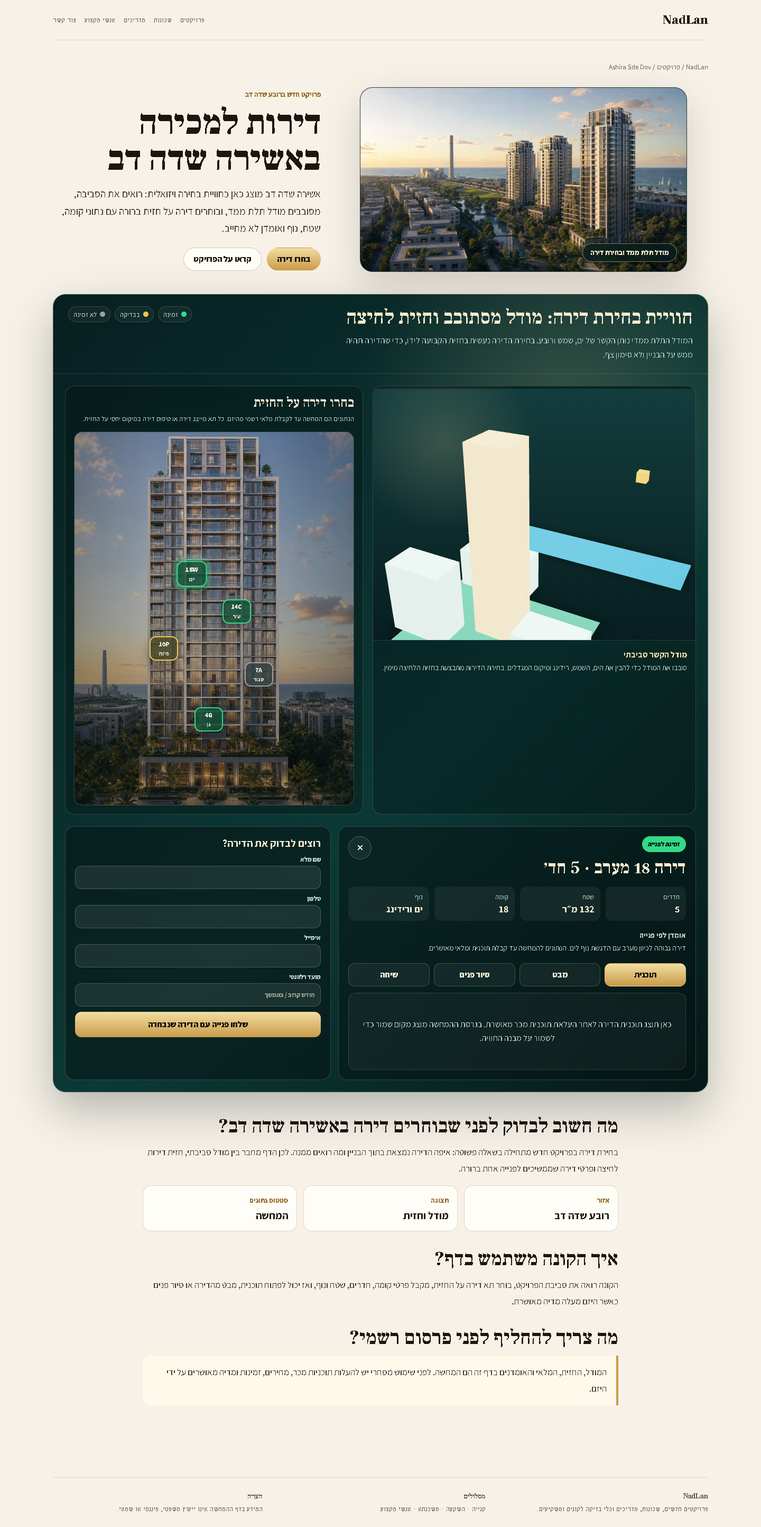
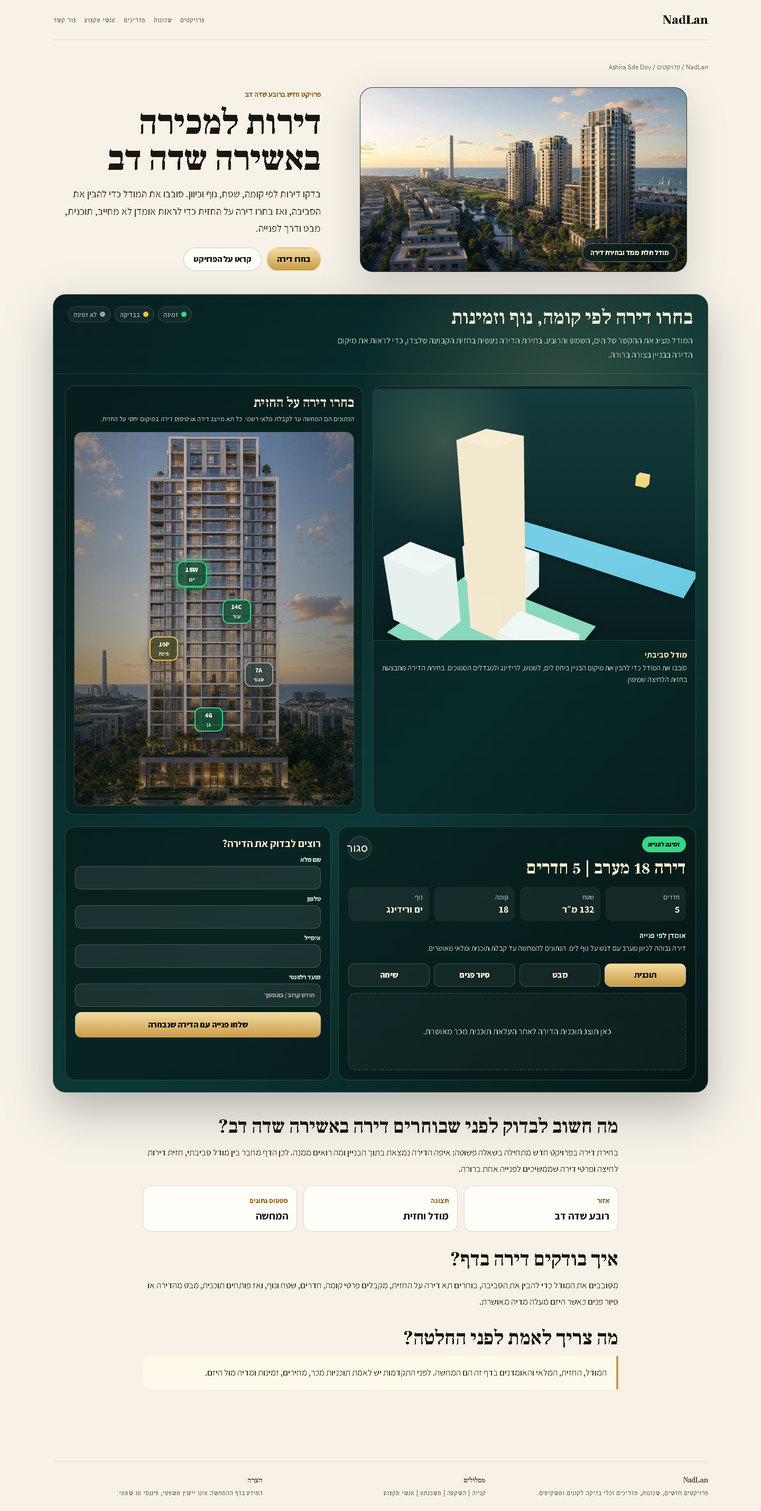
fix: clean ashira v2 buyer copy and encoding

diff --git a/docs/previews/ashira-showroom-v2-preview.html b/docs/previews/ashira-showroom-v2-preview.html
@@ -3,7 +3,7 @@
 <head>
 	<meta charset="utf-8">
 	<meta name="viewport" content="width=device-width, initial-scale=1">
-	<title>Ashira Sde Dov · NadLan showroom v2 preview</title>
+	<title>Ashira Sde Dov | NadLan</title>
 	<link rel="icon" href="data:,">
 	<link rel="preconnect" href="https://fonts.googleapis.com">
 	<link rel="preconnect" href="https://fonts.gstatic.com" crossorigin>
@@ -34,7 +34,7 @@
 			<div>
 				<span class="nlv2-eyebrow">פרויקט חדש ברובע שדה דב</span>
 				<h1 id="nlv2-ashira-title">דירות למכירה באשירה שדה דב</h1>
-				<p>אשירה שדה דב מוצג כאן כחוויית בחירה ויזואלית: רואים את הסביבה, מסובבים מודל תלת ממד, ובוחרים דירה על חזית ברורה עם נתוני קומה, שטח, נוף ואומדן לא מחייב.</p>
+				<p>בדקו דירות לפי קומה, שטח, נוף וכיוון. סובבו את המודל כדי להבין את הסביבה, ואז בחרו דירה על החזית כדי לראות אומדן לא מחייב, תוכנית, מבט ודרך לפנייה.</p>
 				<div class="nlv2-hero-actions">
 					<a class="nlv2-button nlv2-button-primary" href="#nlv2-ashira-selector">בחרו דירה</a>
 					<a class="nlv2-button" href="#nlv2-ashira-info">קראו על הפרויקט</a>
@@ -45,8 +45,8 @@
 		<section class="nlv2-product" id="nlv2-ashira-selector" aria-labelledby="nlv2-ashira-product-title">
 			<header class="nlv2-product-head">
 				<div>
-					<h2 id="nlv2-ashira-product-title">חוויית בחירת דירה: מודל מסתובב וחזית לחיצה</h2>
-					<p>המודל התלת ממדי נותן הקשר של ים, שמש ורובע. בחירת הדירה נעשית בחזית הקבועה לידו, כדי שהדירה תהיה ממש על הבניין ולא סימון צף.</p>
+					<h2 id="nlv2-ashira-product-title">בחרו דירה לפי קומה, נוף וזמינות</h2>
+					<p>המודל מציג את ההקשר של הים, השמש והרובע. בחירת הדירה נעשית בחזית הקבועה שלצדו, כדי לראות את מיקום הדירה בבניין בצורה ברורה.</p>
 				</div>
 				<div class="nlv2-legend" aria-label="מקרא זמינות">
 					<span><i class="nlv2-dot" style="--nlv2-status:#34d986"></i> זמינה</span>
@@ -57,23 +57,23 @@
 
 			<div class="nlv2-stage">
 				<section class="nlv2-model" aria-label="מודל תלת ממד של סביבת הפרויקט">
-					<model-viewer src="../../assets/projects/ashira-sde-dov/model-prototype.glb" poster="../../assets/projects/ashira-sde-dov/ashira-hero-concept.jpg" camera-controls auto-rotate auto-rotate-delay="2200" rotation-per-second="8deg" reveal="auto" loading="auto" camera-orbit="35deg 64deg 68m" min-camera-orbit="-Infinity 54deg auto" max-camera-orbit="Infinity 74deg auto" shadow-intensity="0.9" interaction-prompt="none" ar-status="not-presenting"></model-viewer>
+					<model-viewer src="../../assets/projects/ashira-sde-dov/model-context.glb" poster="../../assets/projects/ashira-sde-dov/ashira-hero-concept.jpg" camera-controls auto-rotate auto-rotate-delay="2200" rotation-per-second="8deg" reveal="auto" loading="auto" camera-orbit="35deg 64deg 68m" min-camera-orbit="-Infinity 54deg auto" max-camera-orbit="Infinity 74deg auto" shadow-intensity="0.9" interaction-prompt="none" ar-status="not-presenting"></model-viewer>
 					<div class="nlv2-model-caption">
-						<strong>מודל הקשר סביבתי</strong>
-						סובבו את המודל כדי להבין את הים, השמש, רידינג ומיקום המגדלים. בחירת הדירות מתבצעת בחזית הלחיצה מימין.
+						<strong>מודל סביבתי</strong>
+						סובבו את המודל כדי להבין את מיקום הבניין ביחס לים, לשמש, לרידינג ולמגדלים הסמוכים. בחירת הדירה מתבצעת בחזית הלחיצה שמימין.
 					</div>
 				</section>
 
 				<section class="nlv2-picker" aria-label="בחירת דירה על חזית הפרויקט">
 					<h3>בחרו דירה על החזית</h3>
-					<p class="nlv2-picker-note">הנתונים הם המחשה עד לקבלת מלאי רשמי מהיזם. כל תא מייצג דירה או טיפוס דירה במיקום יחסי על החזית.</p>
+					<p class="nlv2-picker-note">הנתונים הם המחשה עד לקבלת מלאי רשמי. כל תא מייצג דירה או טיפוס דירה במיקום יחסי על החזית.</p>
 					<div class="nlv2-facade">
-						<img src="../../assets/projects/ashira-sde-dov/ashira-facade-concept.jpg" alt="חזית אשירה עם חלונות ומרפסות לבחירת דירה">
-						<button class="nlv2-cell is-featured is-active" style="left:42%;top:38%;--nlv2-status:#34d986" data-nlv2-unit data-unit-id="ashira-18-west" data-status-color="#34d986" data-status="זמינה לפנייה" data-title="דירה 18 מערב · 5 חד׳" data-rooms="5" data-sqm="132 מ״ר" data-floor="18" data-view="ים ורידינג" data-price="אומדן לפי פנייה" data-note="דירה גבוהה לכיוון מערב עם הדגשת נוף לים. הנתונים להמחשה עד קבלת תוכנית ומלאי מאושרים." aria-pressed="true">18W<small>ים</small></button>
-						<button class="nlv2-cell" style="left:58%;top:48%;--nlv2-status:#34d986" data-nlv2-unit data-unit-id="ashira-14-city" data-status-color="#34d986" data-status="זמינה לפנייה" data-title="דירה 14 עיר · 4 חד׳" data-rooms="4" data-sqm="104 מ״ר" data-floor="14" data-view="רובע שדה דב" data-price="אומדן לפי פנייה" data-note="טיפוס דירה משפחתי במרכז החזית. יש להחליף בנתוני מכר רשמיים לפני פרסום מלא.">14C<small>עיר</small></button>
-						<button class="nlv2-cell is-featured" style="left:32%;top:58%;--nlv2-status:#f2c14e" data-nlv2-unit data-unit-id="ashira-10-corner" data-status-color="#f2c14e" data-status="בבדיקת זמינות" data-title="דירה 10 פינתית · 4 חד׳" data-rooms="4" data-sqm="118 מ״ר" data-floor="10" data-view="ים וחצר" data-price="אומדן לפי פנייה" data-note="דירה פינתית להמחשה עם מרפסת לכיוון מערב. הזמינות אינה מחייבת עד אימות מול היזם.">10P<small>פינה</small></button>
-						<button class="nlv2-cell" style="left:66%;top:65%;--nlv2-status:#9aa0a6" data-nlv2-unit data-unit-id="ashira-07-sold" data-status-color="#9aa0a6" data-status="לא זמינה" data-title="דירה 7 · 3 חד׳" data-rooms="3" data-sqm="82 מ״ר" data-floor="7" data-view="מרקם עירוני" data-price="לא מוצג" data-note="סימון דירה שאינה זמינה, כדי להראות לקונה את מצב המלאי על החזית.">7A<small>סגור</small></button>
-						<button class="nlv2-cell" style="left:48%;top:77%;--nlv2-status:#34d986" data-nlv2-unit data-unit-id="ashira-04-garden" data-status-color="#34d986" data-status="זמינה לפנייה" data-title="דירת גן 4 · 3 חד׳" data-rooms="3" data-sqm="92 מ״ר" data-floor="4" data-view="גן פנימי" data-price="אומדן לפי פנייה" data-note="טיפוס נמוך יותר עם חיבור לגינה ולרחוב. הנתונים להמחשה בלבד.">4G<small>גן</small></button>
+						<img src="../../assets/projects/ashira-sde-dov/ashira-facade-concept.jpg" alt="חזית Ashira עם תאי דירות לבחירה">
+						<button class="nlv2-cell is-featured is-active" style="left:42%;top:38%;--nlv2-status:#34d986" data-nlv2-unit data-unit-id="ashira-18-west" data-status-color="#34d986" data-status="זמינה לפנייה" data-title="דירה 18 מערב | 5 חדרים" data-rooms="5" data-sqm="132 מ״ר" data-floor="18" data-view="ים ורידינג" data-price="אומדן לפי פנייה" data-note="דירה גבוהה לכיוון מערב עם דגש על נוף לים. הנתונים להמחשה עד קבלת תוכנית ומלאי מאושרים." aria-pressed="true">18W<small>ים</small></button>
+						<button class="nlv2-cell" style="left:58%;top:48%;--nlv2-status:#34d986" data-nlv2-unit data-unit-id="ashira-14-city" data-status-color="#34d986" data-status="זמינה לפנייה" data-title="דירה 14 עיר | 4 חדרים" data-rooms="4" data-sqm="104 מ״ר" data-floor="14" data-view="רובע שדה דב" data-price="אומדן לפי פנייה" data-note="דירה משפחתית במרכז החזית. יש לאמת מלאי, מחיר ותוכנית מול היזם לפני כל החלטה.">14C<small>עיר</small></button>
+						<button class="nlv2-cell is-featured" style="left:32%;top:58%;--nlv2-status:#f2c14e" data-nlv2-unit data-unit-id="ashira-10-corner" data-status-color="#f2c14e" data-status="בבדיקת זמינות" data-title="דירה 10 פינתית | 4 חדרים" data-rooms="4" data-sqm="118 מ״ר" data-floor="10" data-view="ים וחצר" data-price="אומדן לפי פנייה" data-note="דירה פינתית עם מרפסת לכיוון מערב. הזמינות אינה מחייבת עד אימות מול היזם.">10P<small>פינה</small></button>
+						<button class="nlv2-cell" style="left:66%;top:65%;--nlv2-status:#9aa0a6" data-nlv2-unit data-unit-id="ashira-07-sold" data-status-color="#9aa0a6" data-status="לא זמינה" data-title="דירה 7 | 3 חדרים" data-rooms="3" data-sqm="82 מ״ר" data-floor="7" data-view="מרקם עירוני" data-price="לא מוצג" data-note="סימון דירה שאינה זמינה, כדי להראות לקונה את מצב המלאי על החזית.">7A<small>סגור</small></button>
+						<button class="nlv2-cell" style="left:48%;top:77%;--nlv2-status:#34d986" data-nlv2-unit data-unit-id="ashira-04-garden" data-status-color="#34d986" data-status="זמינה לפנייה" data-title="דירת גן 4 | 3 חדרים" data-rooms="3" data-sqm="92 מ״ר" data-floor="4" data-view="גן פנימי" data-price="אומדן לפי פנייה" data-note="טיפוס נמוך יותר עם חיבור לגינה ולרחוב. הנתונים להמחשה בלבד.">4G<small>גן</small></button>
 					</div>
 				</section>
 			</div>
@@ -83,9 +83,9 @@
 					<header class="nlv2-card-header">
 						<div>
 							<span class="nlv2-status" data-nlv2-status>זמינה לפנייה</span>
-							<h3 data-nlv2-title>דירה 18 מערב · 5 חד׳</h3>
+							<h3 data-nlv2-title>דירה 18 מערב | 5 חדרים</h3>
 						</div>
-						<button class="nlv2-dismiss" type="button" data-nlv2-dismiss aria-label="סגירת פרטי הדירה">×</button>
+						<button class="nlv2-dismiss" type="button" data-nlv2-dismiss aria-label="סגירת פרטי הדירה">סגור</button>
 					</header>
 					<div class="nlv2-facts">
 						<div class="nlv2-fact">חדרים<strong data-nlv2-rooms>5</strong></div>
@@ -94,7 +94,7 @@
 						<div class="nlv2-fact">נוף<strong data-nlv2-view>ים ורידינג</strong></div>
 					</div>
 					<p class="nlv2-card-copy"><strong data-nlv2-price>אומדן לפי פנייה</strong></p>
-					<p class="nlv2-card-copy" data-nlv2-note>דירה גבוהה לכיוון מערב עם הדגשת נוף לים. הנתונים להמחשה עד קבלת תוכנית ומלאי מאושרים.</p>
+					<p class="nlv2-card-copy" data-nlv2-note>דירה גבוהה לכיוון מערב עם דגש על נוף לים. הנתונים להמחשה עד קבלת תוכנית ומלאי מאושרים.</p>
 					<div class="nlv2-tabs" role="tablist" aria-label="מידע על הדירה">
 						<button class="is-active" type="button" data-nlv2-tab="plan" aria-selected="true">תוכנית</button>
 						<button type="button" data-nlv2-tab="view" aria-selected="false">מבט</button>
@@ -127,16 +127,16 @@
 				<div class="nlv2-data-card"><span>תצוגה</span><strong>מודל וחזית</strong></div>
 				<div class="nlv2-data-card"><span>סטטוס נתונים</span><strong>המחשה</strong></div>
 			</div>
-			<h2>איך הקונה משתמש בדף?</h2>
-			<p>הקונה רואה את סביבת הפרויקט, בוחר תא דירה על החזית, מקבל פרטי קומה, חדרים, שטח ונוף, ואז יכול לפתוח תוכנית, מבט מהדירה או סיור פנים כאשר היזם מעלה מדיה מאושרת.</p>
-			<h2>מה צריך להחליף לפני פרסום רשמי?</h2>
-			<p class="nlv2-note">המודל, החזית, המלאי והאומדנים בדף זה הם המחשה. לפני שימוש מסחרי יש להעלות תוכניות מכר, מחירים, זמינות ומדיה מאושרים על ידי היזם.</p>
+			<h2>איך בודקים דירה בדף?</h2>
+			<p>מסובבים את המודל כדי להבין את הסביבה, בוחרים תא דירה על החזית, מקבלים פרטי קומה, חדרים, שטח ונוף, ואז פותחים תוכנית, מבט מהדירה או סיור פנים כאשר היזם מעלה מדיה מאושרת.</p>
+			<h2>מה צריך לאמת לפני החלטה?</h2>
+			<p class="nlv2-note">המודל, החזית, המלאי והאומדנים בדף זה הם המחשה. לפני התקדמות יש לאמת תוכניות מכר, מחירים, זמינות ומדיה מול היזם.</p>
 		</section>
 	</main>
 
 	<footer class="nlv2-site-footer">
 		<div><strong>NadLan</strong><br>פרויקטים חדשים, שכונות, מדריכים וכלי בדיקה לקונים ומשקיעים.</div>
-		<div><strong>מסלולים</strong><br>קנייה · השקעה · משכנתא · אנשי מקצוע</div>
+		<div><strong>מסלולים</strong><br>קנייה | השקעה | משכנתא | אנשי מקצוע</div>
 		<div><strong>הערה</strong><br>המידע בדף ההמחשה אינו ייעוץ משפטי, פיננסי או שמאי.</div>
 	</footer>
 	<script src="../../assets/js/nadlan-showroom-v2.js"></script>

diff --git a/assets/js/nadlan-showroom-v2.js b/assets/js/nadlan-showroom-v2.js
@@ -2,10 +2,10 @@
 	'use strict';
 
 	var panelCopy = {
-		plan: 'כאן תוצג תוכנית הדירה לאחר העלאת תוכנית מכר מאושרת. בגרסת ההמחשה מוצג מקום שמור כדי לשמור על מבנה החוויה.',
-		view: 'כאן יופיע מבט מהדירה לפי קומה וכיוון, עם חיבור עתידי למפה או לתצוגת תלת ממד של הסביבה.',
-		tour: 'כאן יופיע סיור פנים או סרטון שיווקי כאשר היזם יעלה מדיה מאושרת לפרויקט.',
-		contact: 'השאירו פרטים עם הדירה שנבחרה, ונציג יחזור עם מידע עדכני וזמינות.'
+		plan: 'כאן תוצג תוכנית הדירה לאחר העלאת תוכנית מכר מאושרת.',
+		view: 'כאן יוצג מבט מהדירה לפי קומה וכיוון כאשר נתוני המבט יהיו זמינים.',
+		tour: 'כאן יוצגו סיור פנים, וידאו או גלריית תמונות כאשר החומר המאושר זמין.',
+		contact: 'השאירו פרטים עם הדירה שנבחרה כדי לבדוק זמינות, מחיר ותוכנית עדכניים.'
 	};
 
 	function text(node, value) {
@@ -71,7 +71,7 @@
 		var ok = root.querySelector('[data-nlv2-feedback]');
 		var unit = currentUnit(root);
 		var unitTitle = unit ? unit.dataset.title : 'הדירה שנבחרה';
-		text(ok, 'הפנייה נשמרה בהמחשה עם פרטי ' + unitTitle + '. בחיבור החי היא תישלח לערוץ הפנייה של הפרויקט.');
+		text(ok, 'הפנייה מוכנה לשליחה עם פרטי ' + unitTitle + '. נציג יחזור עם זמינות, מחיר ותוכנית עדכניים.');
 		if (ok) {
 			ok.hidden = false;
 		}

diff --git a/patterns/project-showroom-ashira-v2.php b/patterns/project-showroom-ashira-v2.php
@@ -3,7 +3,7 @@
  * Title: Ashira Sde Dov showroom v2
  * Slug: nadlan-revenue/project-showroom-ashira-v2
  * Categories: featured, media
- * Description: Clean v2 project showroom with a rotating context model and a separate facade apartment selector.
+ * Description: Clean v2 project showroom with a rotating context model and a separate apartment selector.
  *
  * @package WordPress
  * @subpackage NadLan_Revenue
@@ -24,7 +24,7 @@ $asset_base = trailingslashit( get_template_directory_uri() ) . 'assets/projects
 		<div>
 			<span class="nlv2-eyebrow">פרויקט חדש ברובע שדה דב</span>
 			<h1 id="nlv2-ashira-title">דירות למכירה באשירה שדה דב</h1>
-			<p>אשירה שדה דב מוצג כאן כחוויית בחירה ויזואלית: רואים את הסביבה, מסובבים מודל תלת ממד, ובוחרים דירה על חזית ברורה עם נתוני קומה, שטח, נוף ואומדן לא מחייב.</p>
+			<p>בדקו דירות לפי קומה, שטח, נוף וכיוון. סובבו את המודל כדי להבין את הסביבה, ואז בחרו דירה על החזית כדי לראות אומדן לא מחייב, תוכנית, מבט ודרך לפנייה.</p>
 			<div class="nlv2-hero-actions">
 				<a class="nlv2-button nlv2-button-primary" href="#nlv2-ashira-selector">בחרו דירה</a>
 				<a class="nlv2-button" href="#nlv2-ashira-info">קראו על הפרויקט</a>
@@ -35,8 +35,8 @@ $asset_base = trailingslashit( get_template_directory_uri() ) . 'assets/projects
 	<section class="nlv2-product" id="nlv2-ashira-selector" aria-labelledby="nlv2-ashira-product-title">
 		<header class="nlv2-product-head">
 			<div>
-				<h2 id="nlv2-ashira-product-title">חוויית בחירת דירה: מודל מסתובב וחזית לחיצה</h2>
-				<p>המודל התלת ממדי נותן הקשר של ים, שמש ורובע. בחירת הדירה נעשית בחזית הקבועה לידו, כדי שהדירה תהיה ממש על הבניין ולא סימון צף.</p>
+				<h2 id="nlv2-ashira-product-title">בחרו דירה לפי קומה, נוף וזמינות</h2>
+				<p>המודל מציג את ההקשר של הים, השמש והרובע. בחירת הדירה נעשית בחזית הקבועה שלצדו, כדי לראות את מיקום הדירה בבניין בצורה ברורה.</p>
 			</div>
 			<div class="nlv2-legend" aria-label="מקרא זמינות">
 				<span><i class="nlv2-dot" style="--nlv2-status:#34d986"></i> זמינה</span>
@@ -48,7 +48,7 @@ $asset_base = trailingslashit( get_template_directory_uri() ) . 'assets/projects
 		<div class="nlv2-stage">
 			<section class="nlv2-model" aria-label="מודל תלת ממד של סביבת הפרויקט">
 				<model-viewer
-					src="<?php echo esc_url( $asset_base . 'model-prototype.glb' ); ?>"
+					src="<?php echo esc_url( $asset_base . 'model-context.glb' ); ?>"
 					poster="<?php echo esc_url( $asset_base . 'ashira-hero-concept.jpg' ); ?>"
 					camera-controls
 					auto-rotate
@@ -64,21 +64,21 @@ $asset_base = trailingslashit( get_template_directory_uri() ) . 'assets/projects
 					ar-status="not-presenting">
 				</model-viewer>
 				<div class="nlv2-model-caption">
-					<strong>מודל הקשר סביבתי</strong>
-					סובבו את המודל כדי להבין את הים, השמש, רידינג ומיקום המגדלים. בחירת הדירות מתבצעת בחזית הלחיצה מימין.
+					<strong>מודל סביבתי</strong>
+					סובבו את המודל כדי להבין את מיקום הבניין ביחס לים, לשמש, לרידינג ולמגדלים הסמוכים. בחירת הדירה מתבצעת בחזית הלחיצה שמימין.
 				</div>
 			</section>
 
 			<section class="nlv2-picker" aria-label="בחירת דירה על חזית הפרויקט">
 				<h3>בחרו דירה על החזית</h3>
-				<p class="nlv2-picker-note">הנתונים הם המחשה עד לקבלת מלאי רשמי מהיזם. כל תא מייצג דירה או טיפוס דירה במיקום יחסי על החזית.</p>
+				<p class="nlv2-picker-note">הנתונים הם המחשה עד לקבלת מלאי רשמי. כל תא מייצג דירה או טיפוס דירה במיקום יחסי על החזית.</p>
 				<div class="nlv2-facade">
-					<img src="<?php echo esc_url( $asset_base . 'ashira-facade-concept.jpg' ); ?>" alt="חזית אשירה עם חלונות ומרפסות לבחירת דירה">
-					<button class="nlv2-cell is-featured is-active" style="left:42%;top:38%;--nlv2-status:#34d986" data-nlv2-unit data-unit-id="ashira-18-west" data-status-color="#34d986" data-status="זמינה לפנייה" data-title="דירה 18 מערב · 5 חד׳" data-rooms="5" data-sqm="132 מ״ר" data-floor="18" data-view="ים ורידינג" data-price="אומדן לפי פנייה" data-note="דירה גבוהה לכיוון מערב עם הדגשת נוף לים. הנתונים להמחשה עד קבלת תוכנית ומלאי מאושרים." aria-pressed="true">18W<small>ים</small></button>
-					<button class="nlv2-cell" style="left:58%;top:48%;--nlv2-status:#34d986" data-nlv2-unit data-unit-id="ashira-14-city" data-status-color="#34d986" data-status="זמינה לפנייה" data-title="דירה 14 עיר · 4 חד׳" data-rooms="4" data-sqm="104 מ״ר" data-floor="14" data-view="רובע שדה דב" data-price="אומדן לפי פנייה" data-note="טיפוס דירה משפחתי במרכז החזית. יש להחליף בנתוני מכר רשמיים לפני פרסום מלא.">14C<small>עיר</small></button>
-					<button class="nlv2-cell is-featured" style="left:32%;top:58%;--nlv2-status:#f2c14e" data-nlv2-unit data-unit-id="ashira-10-corner" data-status-color="#f2c14e" data-status="בבדיקת זמינות" data-title="דירה 10 פינתית · 4 חד׳" data-rooms="4" data-sqm="118 מ״ר" data-floor="10" data-view="ים וחצר" data-price="אומדן לפי פנייה" data-note="דירה פינתית להמחשה עם מרפסת לכיוון מערב. הזמינות אינה מחייבת עד אימות מול היזם.">10P<small>פינה</small></button>
-					<button class="nlv2-cell" style="left:66%;top:65%;--nlv2-status:#9aa0a6" data-nlv2-unit data-unit-id="ashira-07-sold" data-status-color="#9aa0a6" data-status="לא זמינה" data-title="דירה 7 · 3 חד׳" data-rooms="3" data-sqm="82 מ״ר" data-floor="7" data-view="מרקם עירוני" data-price="לא מוצג" data-note="סימון דירה שאינה זמינה, כדי להראות לקונה את מצב המלאי על החזית.">7A<small>סגור</small></button>
-					<button class="nlv2-cell" style="left:48%;top:77%;--nlv2-status:#34d986" data-nlv2-unit data-unit-id="ashira-04-garden" data-status-color="#34d986" data-status="זמינה לפנייה" data-title="דירת גן 4 · 3 חד׳" data-rooms="3" data-sqm="92 מ״ר" data-floor="4" data-view="גן פנימי" data-price="אומדן לפי פנייה" data-note="טיפוס נמוך יותר עם חיבור לגינה ולרחוב. הנתונים להמחשה בלבד.">4G<small>גן</small></button>
+					<img src="<?php echo esc_url( $asset_base . 'ashira-facade-concept.jpg' ); ?>" alt="חזית Ashira עם תאי דירות לבחירה">
+					<button class="nlv2-cell is-featured is-active" style="left:42%;top:38%;--nlv2-status:#34d986" data-nlv2-unit data-unit-id="ashira-18-west" data-status-color="#34d986" data-status="זמינה לפנייה" data-title="דירה 18 מערב | 5 חדרים" data-rooms="5" data-sqm="132 מ״ר" data-floor="18" data-view="ים ורידינג" data-price="אומדן לפי פנייה" data-note="דירה גבוהה לכיוון מערב עם דגש על נוף לים. הנתונים להמחשה עד קבלת תוכנית ומלאי מאושרים." aria-pressed="true">18W<small>ים</small></button>
+					<button class="nlv2-cell" style="left:58%;top:48%;--nlv2-status:#34d986" data-nlv2-unit data-unit-id="ashira-14-city" data-status-color="#34d986" data-status="זמינה לפנייה" data-title="דירה 14 עיר | 4 חדרים" data-rooms="4" data-sqm="104 מ״ר" data-floor="14" data-view="רובע שדה דב" data-price="אומדן לפי פנייה" data-note="דירה משפחתית במרכז החזית. יש לאמת מלאי, מחיר ותוכנית מול היזם לפני כל החלטה.">14C<small>עיר</small></button>
+					<button class="nlv2-cell is-featured" style="left:32%;top:58%;--nlv2-status:#f2c14e" data-nlv2-unit data-unit-id="ashira-10-corner" data-status-color="#f2c14e" data-status="בבדיקת זמינות" data-title="דירה 10 פינתית | 4 חדרים" data-rooms="4" data-sqm="118 מ״ר" data-floor="10" data-view="ים וחצר" data-price="אומדן לפי פנייה" data-note="דירה פינתית עם מרפסת לכיוון מערב. הזמינות אינה מחייבת עד אימות מול היזם.">10P<small>פינה</small></button>
+					<button class="nlv2-cell" style="left:66%;top:65%;--nlv2-status:#9aa0a6" data-nlv2-unit data-unit-id="ashira-07-sold" data-status-color="#9aa0a6" data-status="לא זמינה" data-title="דירה 7 | 3 חדרים" data-rooms="3" data-sqm="82 מ״ר" data-floor="7" data-view="מרקם עירוני" data-price="לא מוצג" data-note="סימון דירה שאינה זמינה, כדי להראות לקונה את מצב המלאי על החזית.">7A<small>סגור</small></button>
+					<button class="nlv2-cell" style="left:48%;top:77%;--nlv2-status:#34d986" data-nlv2-unit data-unit-id="ashira-04-garden" data-status-color="#34d986" data-status="זמינה לפנייה" data-title="דירת גן 4 | 3 חדרים" data-rooms="3" data-sqm="92 מ״ר" data-floor="4" data-view="גן פנימי" data-price="אומדן לפי פנייה" data-note="טיפוס נמוך יותר עם חיבור לגינה ולרחוב. הנתונים להמחשה בלבד.">4G<small>גן</small></button>
 				</div>
 			</section>
 		</div>
@@ -88,9 +88,9 @@ $asset_base = trailingslashit( get_template_directory_uri() ) . 'assets/projects
 				<header class="nlv2-card-header">
 					<div>
 						<span class="nlv2-status" data-nlv2-status>זמינה לפנייה</span>
-						<h3 data-nlv2-title>דירה 18 מערב · 5 חד׳</h3>
+						<h3 data-nlv2-title>דירה 18 מערב | 5 חדרים</h3>
 					</div>
-					<button class="nlv2-dismiss" type="button" data-nlv2-dismiss aria-label="סגירת פרטי הדירה">×</button>
+					<button class="nlv2-dismiss" type="button" data-nlv2-dismiss aria-label="סגירת פרטי הדירה">סגור</button>
 				</header>
 				<div class="nlv2-facts">
 					<div class="nlv2-fact">חדרים<strong data-nlv2-rooms>5</strong></div>
@@ -99,7 +99,7 @@ $asset_base = trailingslashit( get_template_directory_uri() ) . 'assets/projects
 					<div class="nlv2-fact">נוף<strong data-nlv2-view>ים ורידינג</strong></div>
 				</div>
 				<p class="nlv2-card-copy"><strong data-nlv2-price>אומדן לפי פנייה</strong></p>
-				<p class="nlv2-card-copy" data-nlv2-note>דירה גבוהה לכיוון מערב עם הדגשת נוף לים. הנתונים להמחשה עד קבלת תוכנית ומלאי מאושרים.</p>
+				<p class="nlv2-card-copy" data-nlv2-note>דירה גבוהה לכיוון מערב עם דגש על נוף לים. הנתונים להמחשה עד קבלת תוכנית ומלאי מאושרים.</p>
 				<div class="nlv2-tabs" role="tablist" aria-label="מידע על הדירה">
 					<button class="is-active" type="button" data-nlv2-tab="plan" aria-selected="true">תוכנית</button>
 					<button type="button" data-nlv2-tab="view" aria-selected="false">מבט</button>
@@ -132,10 +132,10 @@ $asset_base = trailingslashit( get_template_directory_uri() ) . 'assets/projects
 			<div class="nlv2-data-card"><span>תצוגה</span><strong>מודל וחזית</strong></div>
 			<div class="nlv2-data-card"><span>סטטוס נתונים</span><strong>המחשה</strong></div>
 		</div>
-		<h2>איך הקונה משתמש בדף?</h2>
-		<p>הקונה רואה את סביבת הפרויקט, בוחר תא דירה על החזית, מקבל פרטי קומה, חדרים, שטח ונוף, ואז יכול לפתוח תוכנית, מבט מהדירה או סיור פנים כאשר היזם מעלה מדיה מאושרת.</p>
-		<h2>מה צריך להחליף לפני פרסום רשמי?</h2>
-		<p class="nlv2-note">המודל, החזית, המלאי והאומדנים בדף זה הם המחשה. לפני שימוש מסחרי יש להעלות תוכניות מכר, מחירים, זמינות ומדיה מאושרים על ידי היזם.</p>
+		<h2>איך בודקים דירה בדף?</h2>
+		<p>מסובבים את המודל כדי להבין את הסביבה, בוחרים תא דירה על החזית, מקבלים פרטי קומה, חדרים, שטח ונוף, ואז פותחים תוכנית, מבט מהדירה או סיור פנים כאשר היזם מעלה מדיה מאושרת.</p>
+		<h2>מה צריך לאמת לפני החלטה?</h2>
+		<p class="nlv2-note">המודל, החזית, המלאי והאומדנים בדף זה הם המחשה. לפני התקדמות יש לאמת תוכניות מכר, מחירים, זמינות ומדיה מול היזם.</p>
 	</section>
 </main>
 <!-- /wp:html -->

diff --git a/docs/qa/2026-06-26-ashira-v2-preview-factory-gate.md b/docs/qa/2026-06-26-ashira-v2-preview-factory-gate.md
@@ -9,6 +9,10 @@ This slice adds a repeatable screenshot-first QA gate for clean v2 showroom prev
 local HTTP server, opens the preview in Google Chrome through Playwright, captures screenshots at
 desktop, tablet, mobile and Edge-mobile sizes, and writes a machine-readable report.
 
+The latest pass also cleans the Ashira v2 source files after a source audit found mojibake and
+working-language in the preview, pattern, runtime and payload. Public copy now speaks to buyers
+only: apartment choice, floor, rooms, sqm, view, estimate, plans, media and inquiry.
+
 It does not contact WordPress, import a draft, publish content, build a plugin ZIP or deploy the
 site.
 
@@ -64,6 +68,23 @@ Report:
 | Visible Hebrew present | PASS |
 | Mojibake visible | PASS, none |
 | Internal wording visible | PASS, none |
+
+## Source Integrity
+
+Checked files:
+
+- `patterns/project-showroom-ashira-v2.php`
+- `docs/previews/ashira-showroom-v2-preview.html`
+- `assets/js/nadlan-showroom-v2.js`
+- `assets/projects/ashira-sde-dov/showroom-payload.json`
+
+Result:
+
+- no `×...` mojibake sequences
+- no `Â`, `Ã`, or replacement characters
+- no public `מקום שמור`
+- no public `מנוע`, `תבנית`, `לידים`, `פאנל`, `SEO`, `CMS`, `lead`, `engine`, `template`, or `prototype`
+- JSON payload parses successfully
 
 ## Honest Limits
 

diff --git a/assets/projects/ashira-sde-dov/source-notes.md b/assets/projects/ashira-sde-dov/source-notes.md
@@ -2,13 +2,13 @@
 
 Date: 2026-06-26
 
-This folder is a clean v2 prototype package for the Ashira showroom factory.
+This folder is a clean v2 project package for the Ashira showroom factory.
 
 ## Assets
 
 - `ashira-hero-concept.jpg` is an original generated concept image for the project hero. It is not an official developer render.
 - `ashira-facade-concept.jpg` is an original generated concept facade for the apartment picker. It is not an official sale elevation.
-- `model-prototype.glb` is a temporary massing model copied from the existing prototype rail so the v2 page can test model-viewer behavior. Replace it with an official BIM/GLB or approved generated model before a commercial launch.
+- `model-context.glb` is a temporary massing model for testing model-viewer behavior. Replace it with an official BIM/GLB or approved generated model before a commercial launch.
 
 ## Public Use
 
